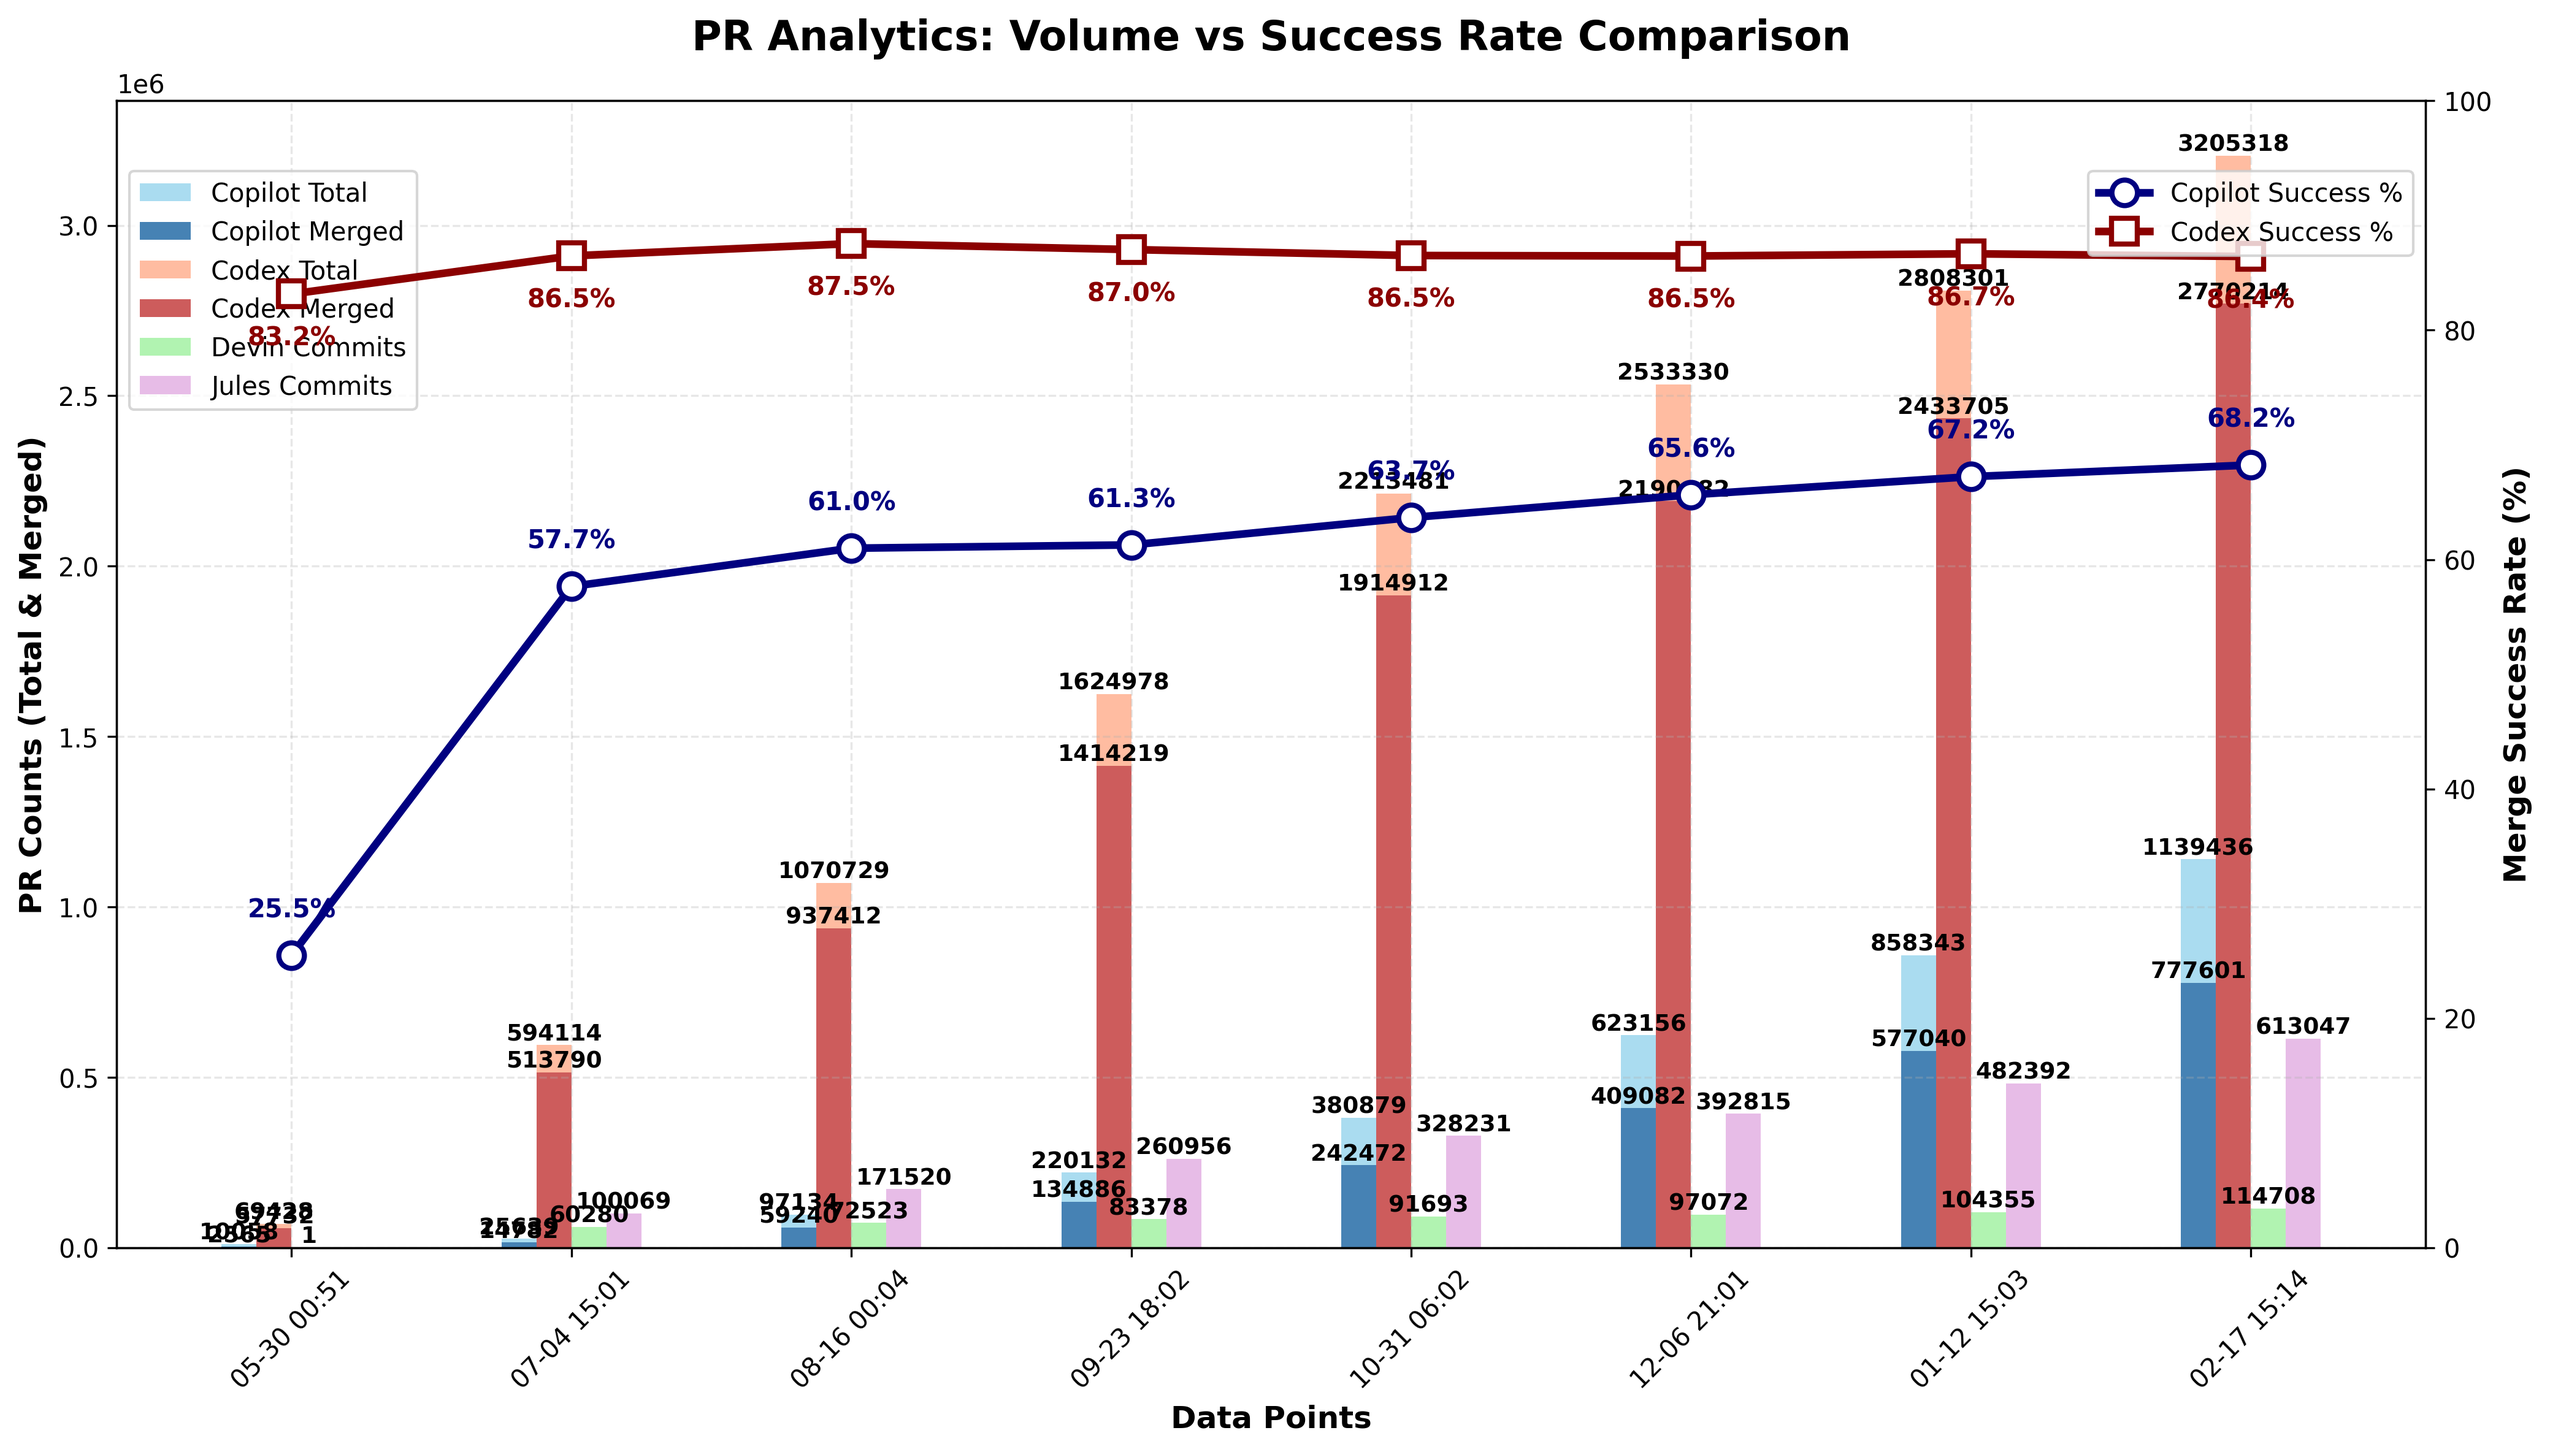
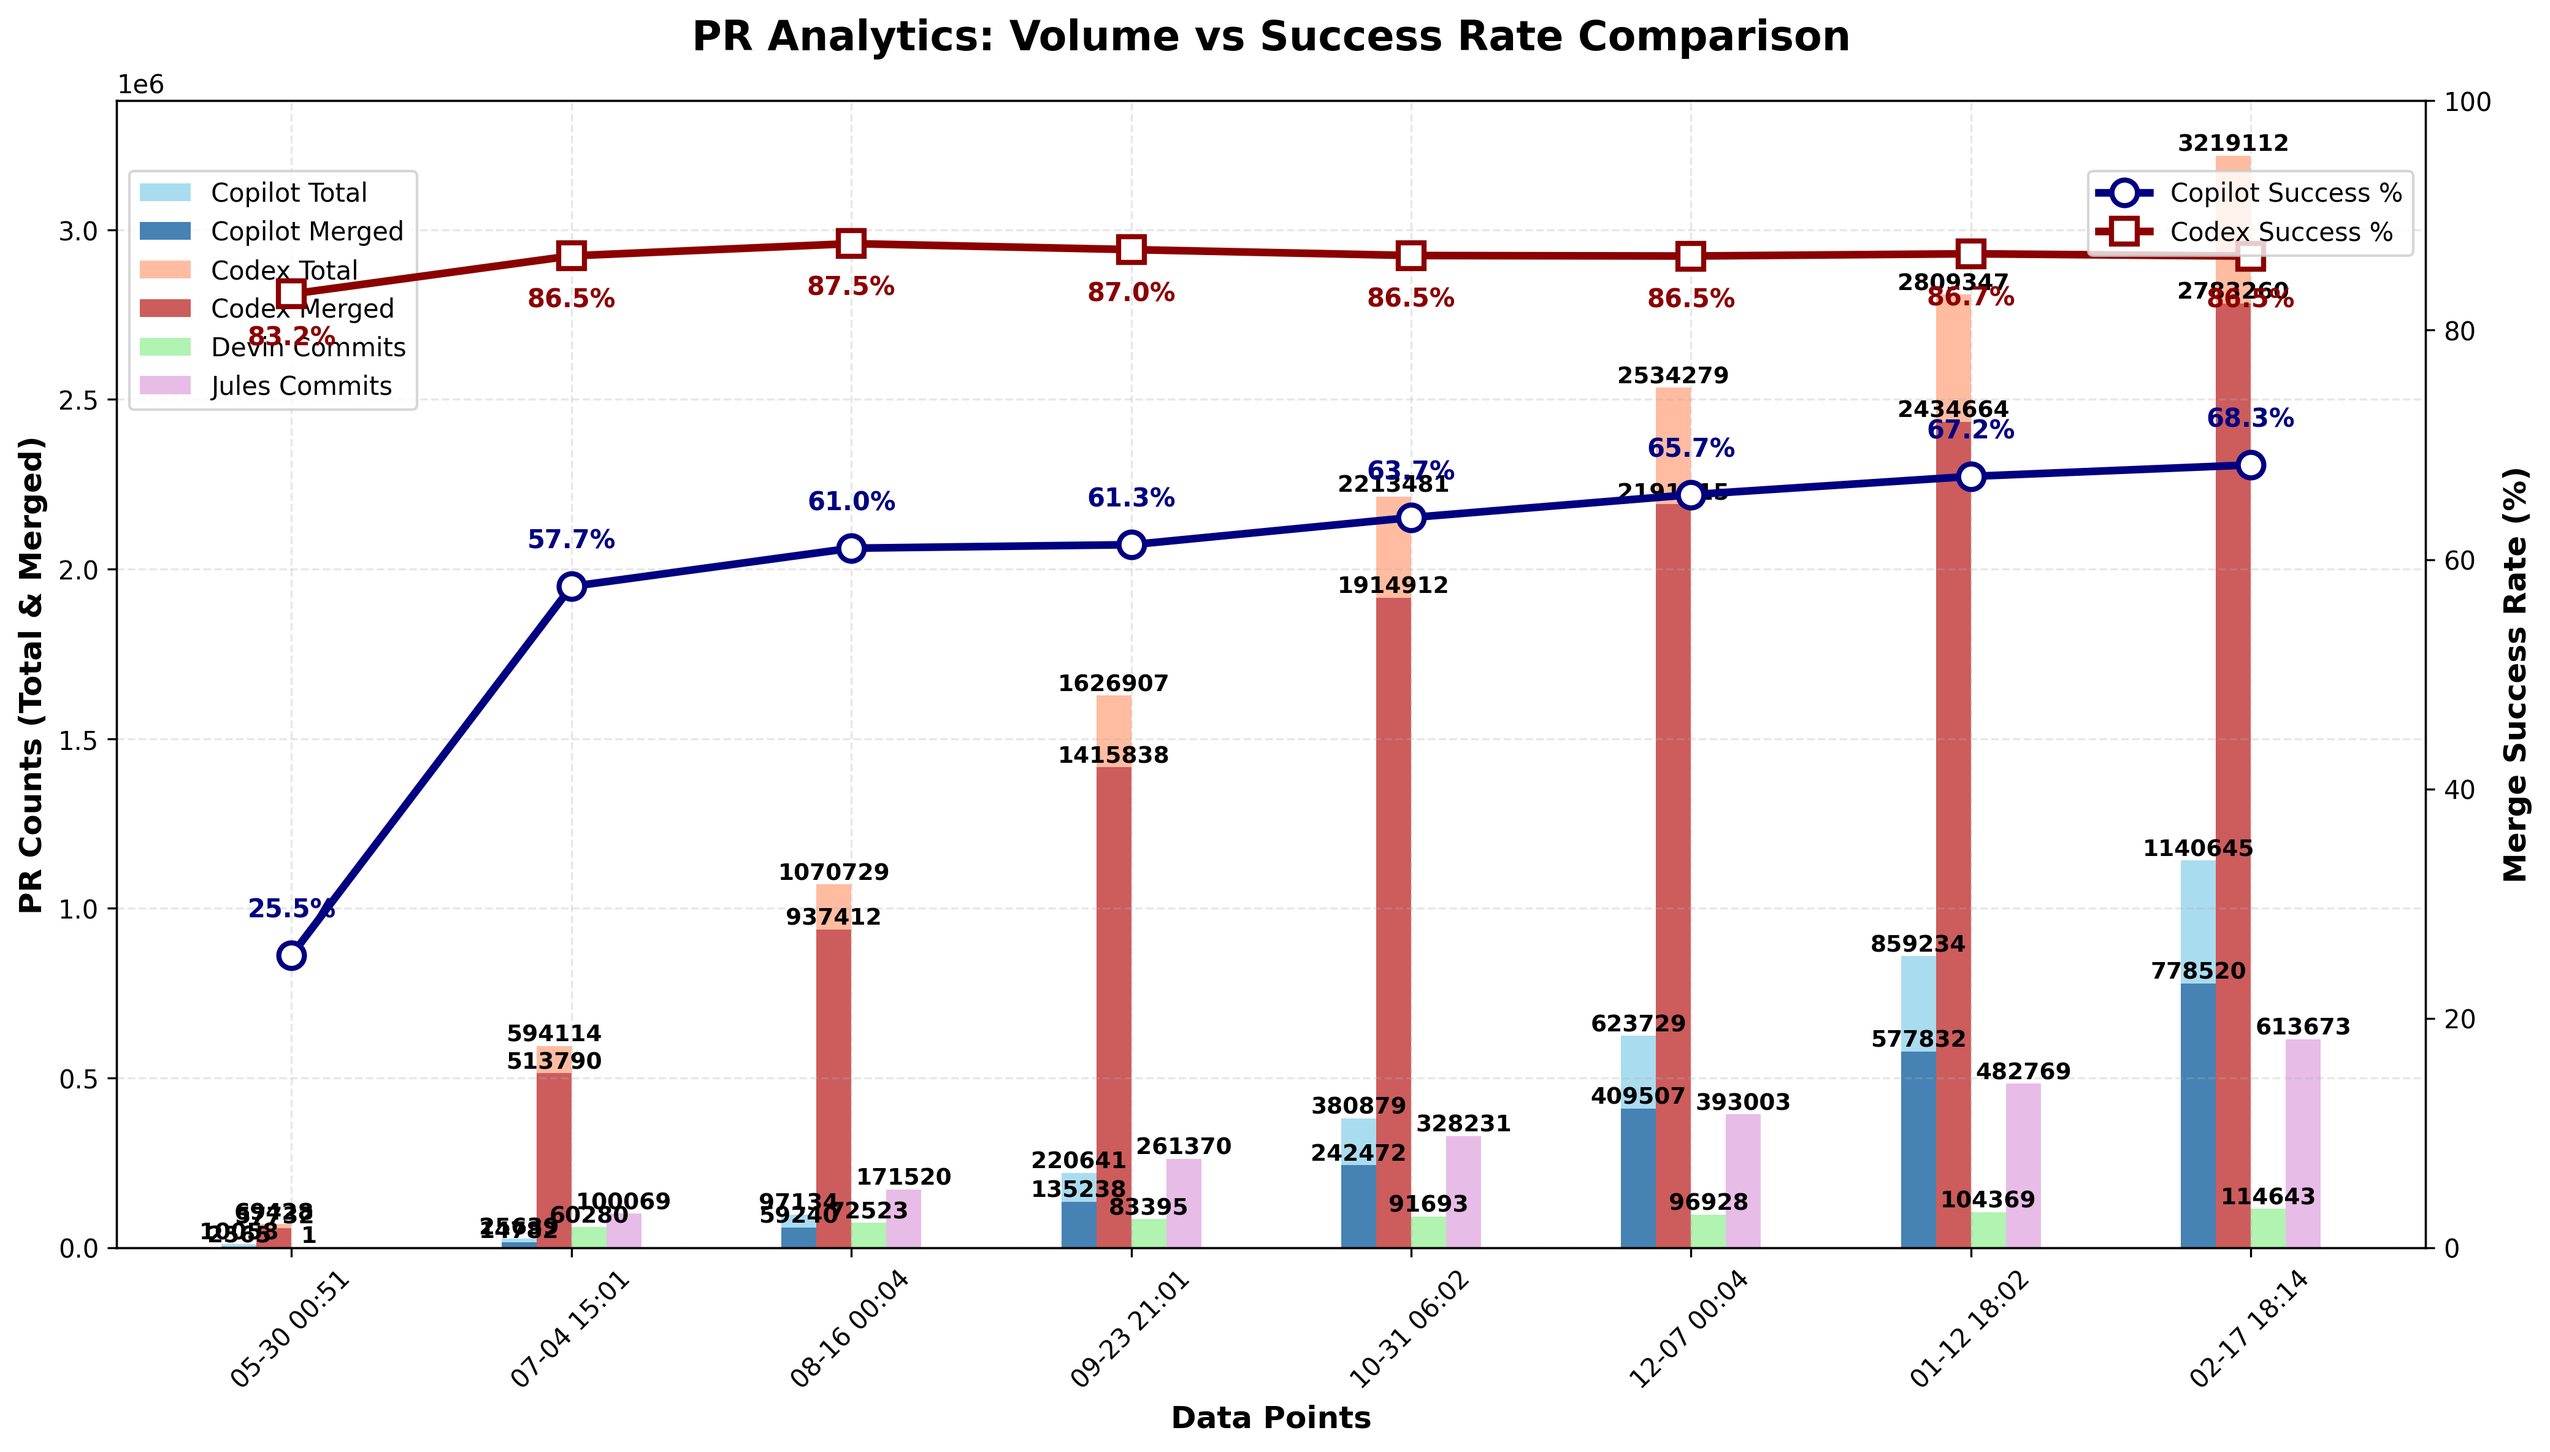
chore: update PR‑approval chart

diff --git a/docs/index.html b/docs/index.html
@@ -2038,6 +2038,7 @@
                         <td>N/A</td>
                         <td>N/A</td>
                         <td>N/A</td>
+                        <td>N/A</td>
                     </tr>
                     <tr>
                         <td>Codex</td>
@@ -4034,27 +4035,28 @@
                         <td>N/A</td>
                         <td>N/A</td>
                         <td>N/A</td>
+                        <td>N/A</td>
                     </tr>
                 <tr>
                         <td>Devin</td>
                         <td>N/A</td>
                         <td>N/A</td>
                         <td>N/A</td>
-                        <td>114,708</td>
+                        <td>114,643</td>
                     </tr>
                     <tr>
                         <td>Jules</td>
                         <td>N/A</td>
                         <td>N/A</td>
                         <td>N/A</td>
-                        <td>613,047</td>
+                        <td>613,673</td>
                     </tr>
                     </tbody>
             </table>
         </section>
 
         <footer>
-            <p>Last updated: <span id="last-updated">February 17, 2026 15:14 UTC</span></p>
+            <p>Last updated: <span id="last-updated">February 17, 2026 18:14 UTC</span></p>
             <p><a href="https://github.com/aavetis/ai-pr-watcher">View on GitHub</a></p>
         </footer>
     </div>

diff --git a/README.md b/README.md
@@ -19,7 +19,7 @@ Explore the GitHub search queries used:
 
 | Service | Total PRs | Merged PRs | Merge Rate | Total Commits |
 | ------- | --------- | ---------- | ---------- | ------------- |
-| Copilot | 1,139,436 | 777,601 | 68.24% | N/A           |
-| Codex   | 3,205,318 | 2,770,214 | 86.43% | N/A           |
-| Devin   | N/A       | N/A        | N/A        | 114,708 |
-| Jules   | N/A       | N/A        | N/A        | 613,047 |
+| Copilot | 1,140,645 | 778,520 | 68.25% | N/A           |
+| Codex   | 3,219,112 | 2,783,260 | 86.46% | N/A           |
+| Devin   | N/A       | N/A        | N/A        | 114,643 |
+| Jules   | N/A       | N/A        | N/A        | 613,673 |
